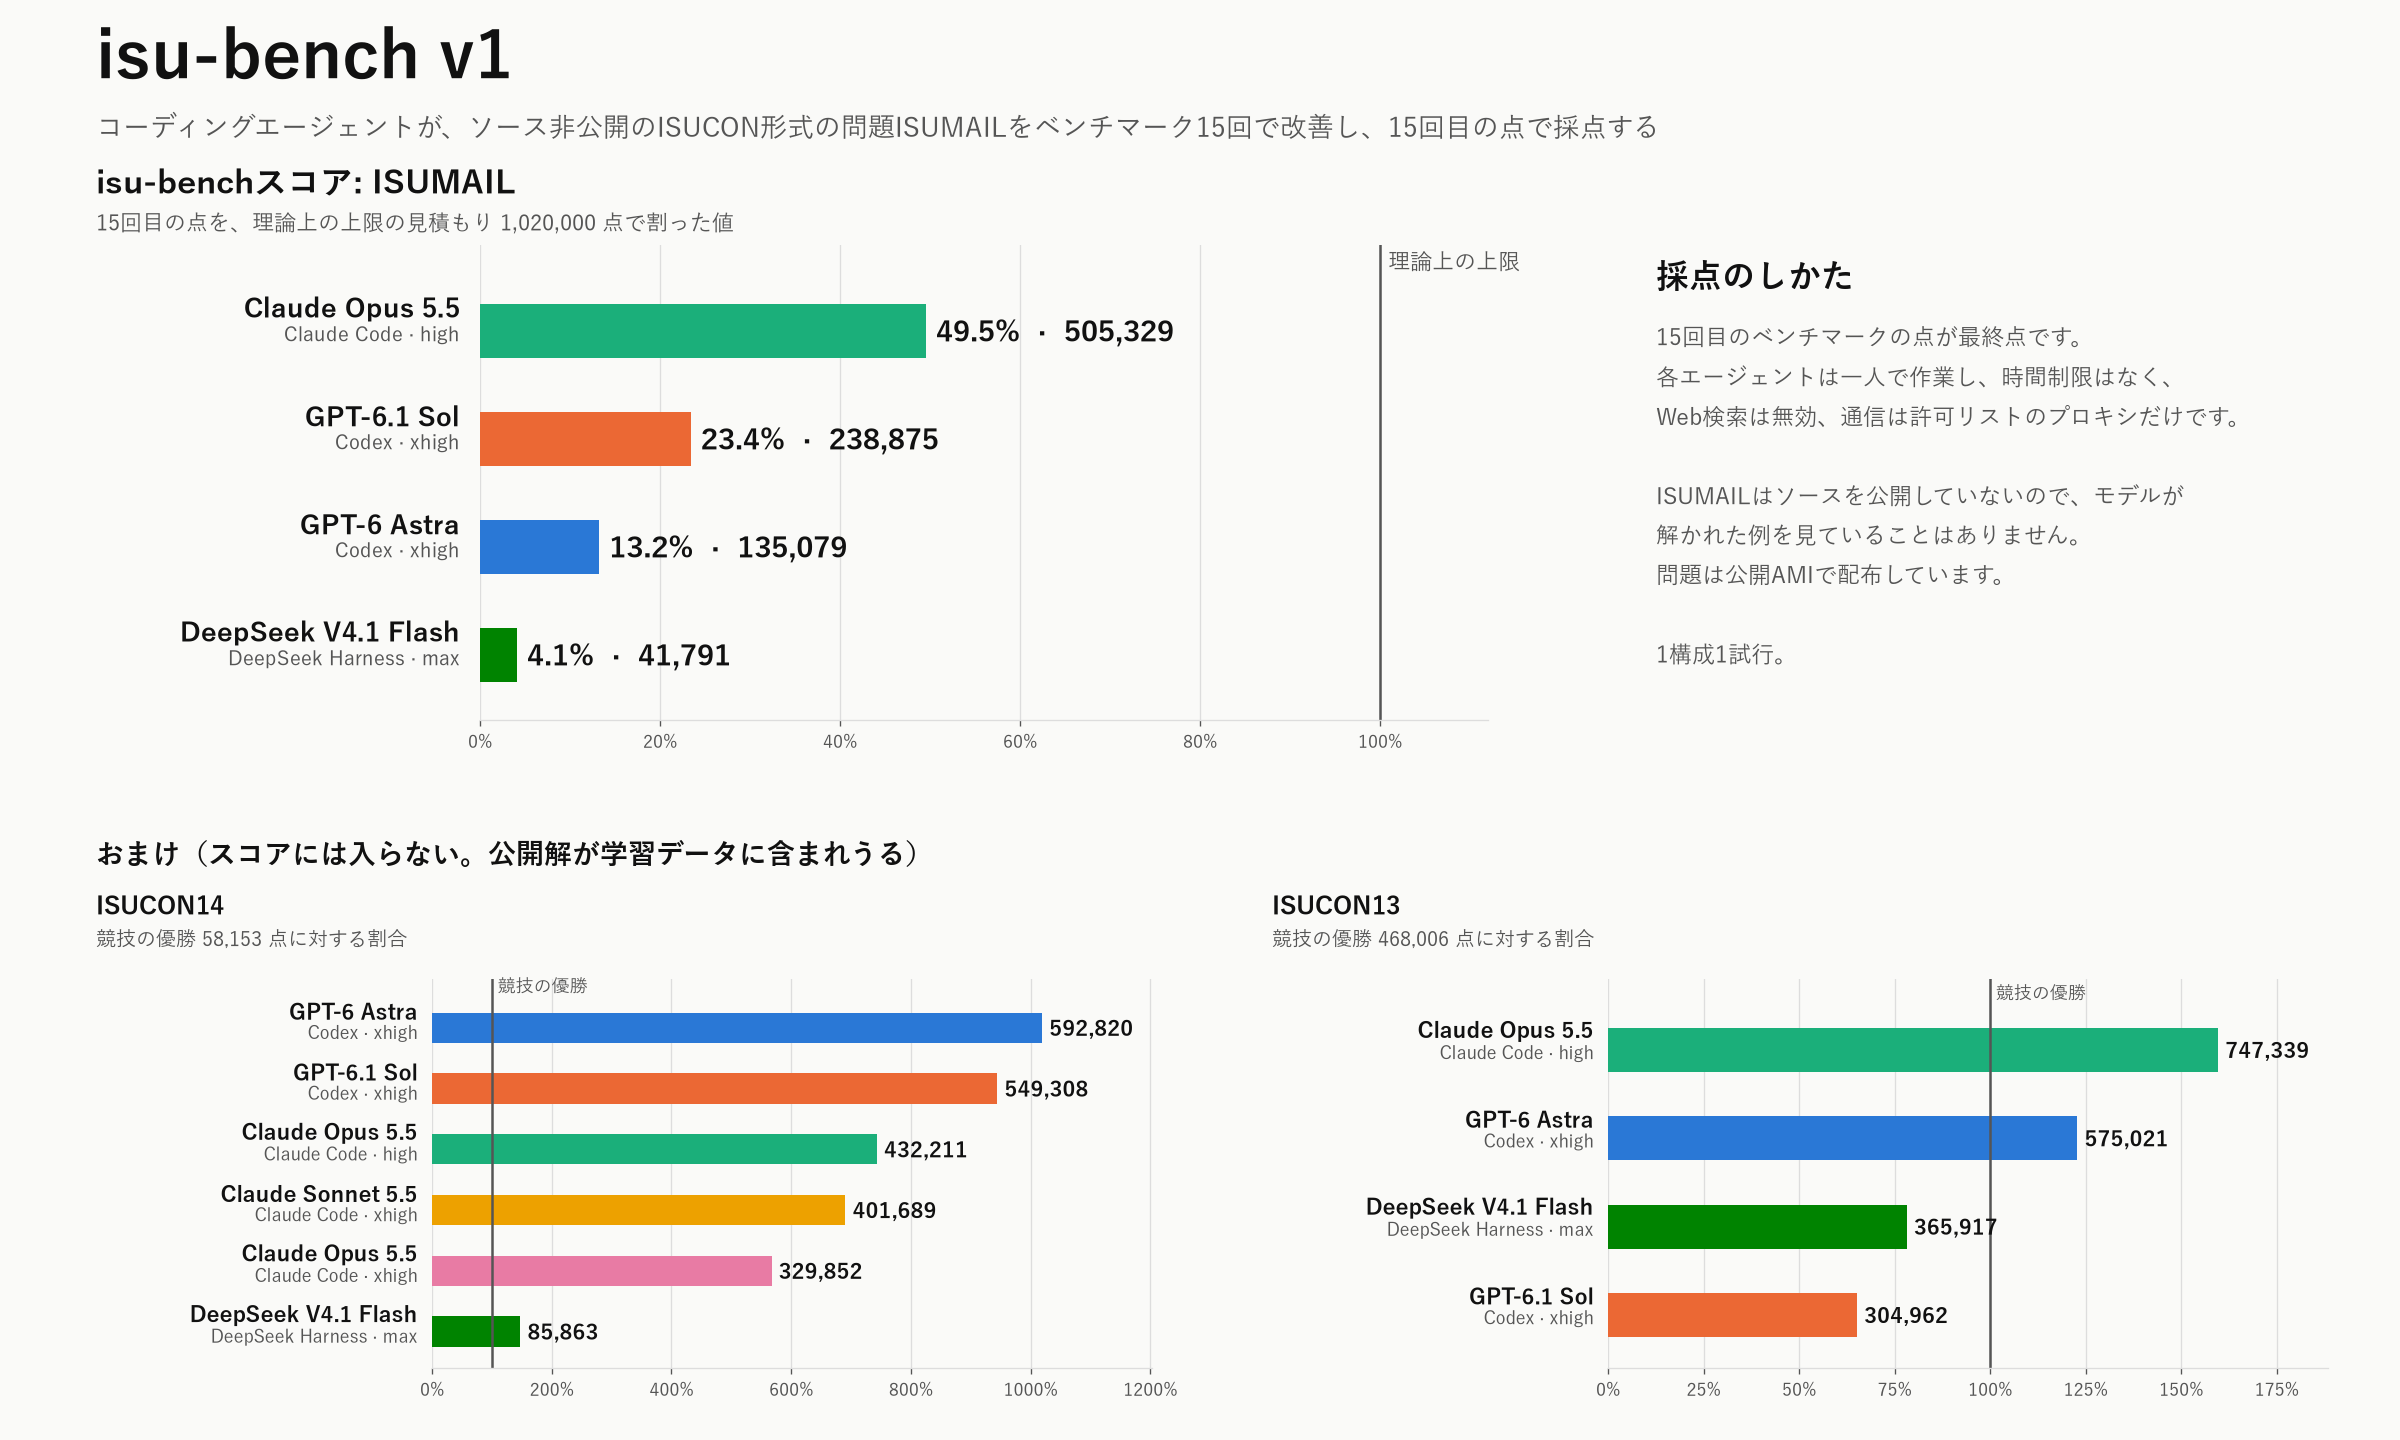
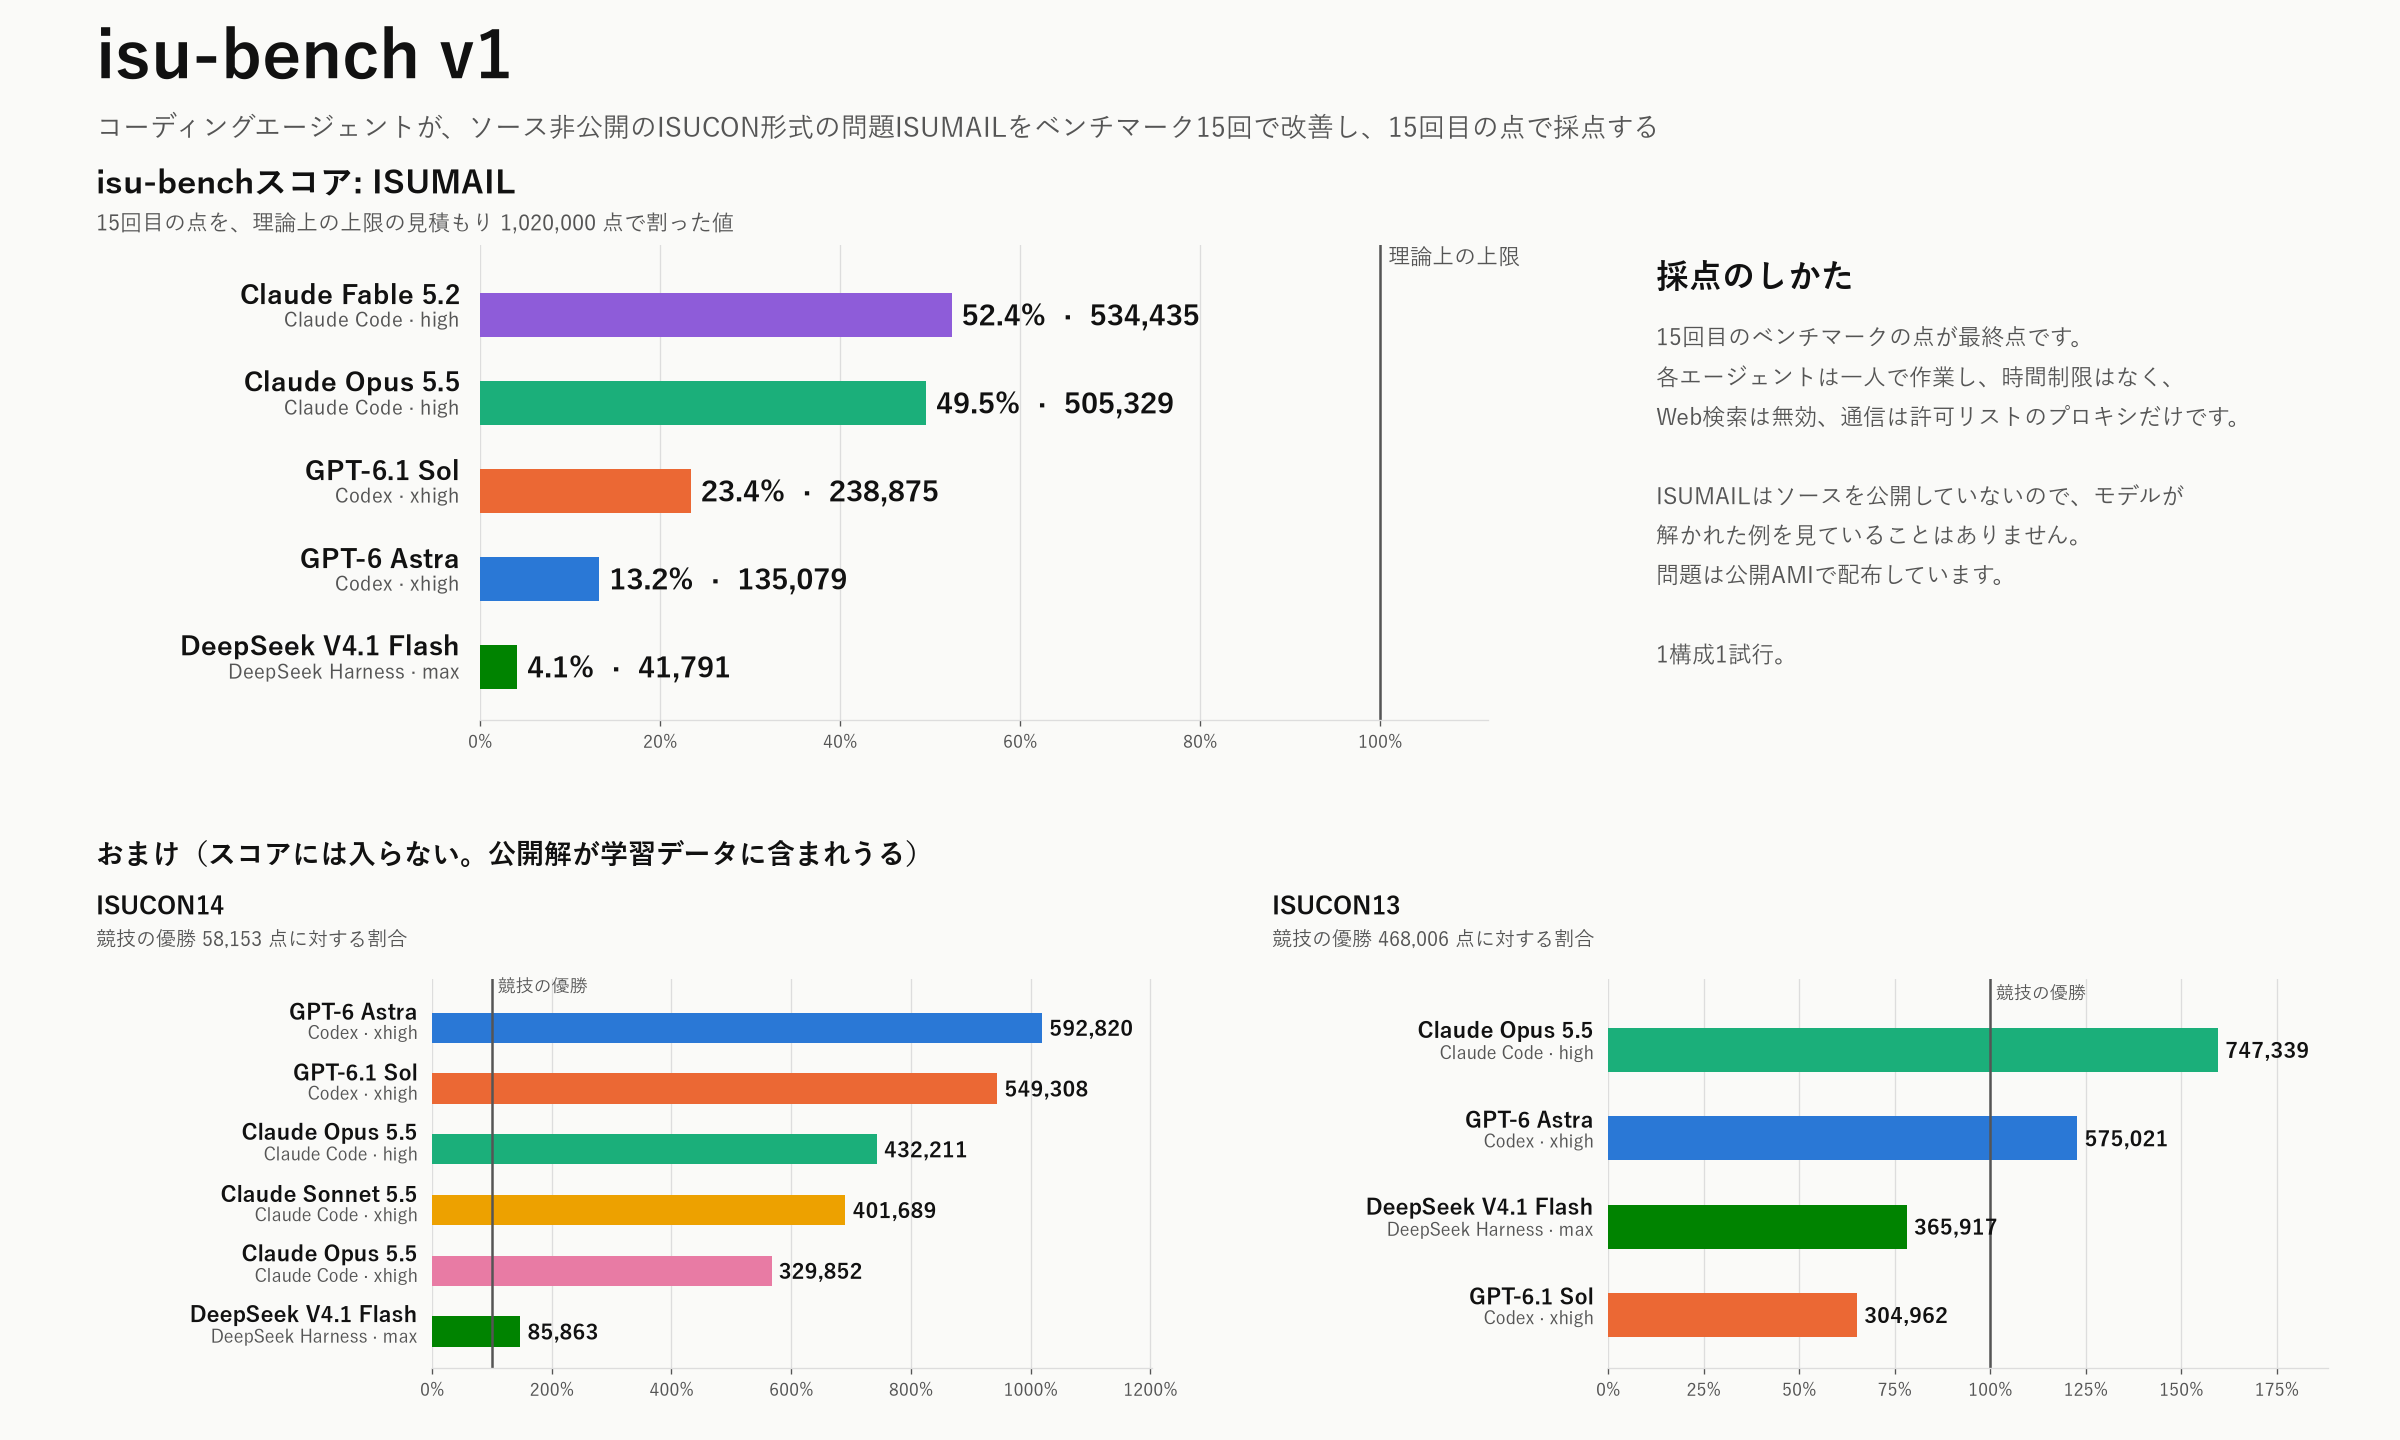
📝 docs: add Claude Fable 5.2 to the results and correct Sonnet 5.5's cache price
Claude Fable 5.2 high leads ISUMAIL at 52.4% (534,435). The README tables, the
per-run scores and both charts include it; the charts come from the same
matplotlib script as before, with Fable's name and a color added.

Anthropic's pricing page lists Sonnet 5.5 cache reads at $0.10 per million
tokens, not $0.20, so its ISUCON14 cost falls from $13.50 to $9.65. The
Anthropic prices were checked on 2026-11-10; the others stay as of 2026-11-03.

Changed region(s): [[0.0625, 0.1875, 0.5, 0.4688], [0.5625, 0.1562, 0.625, 0.1875]]

diff --git a/isubench/site.html b/isubench/site.html
@@ -136,7 +136,7 @@ const T = {
     details: 'Details',
     failNote: 'A hollow mark on the baseline is a FAIL, which scores 0.',
     tableNote: ["Tokens come from each agent's transcripts and are not strictly comparable across providers.",
-                'API cost prices those tokens at each provider\'s list price on 2026-11-03 (DeepSeek at its peak rate; off-peak is half).'],
+                'API cost prices those tokens at each provider\'s list price on 2026-11-03, Anthropic\'s on 2026-11-10 (DeepSeek at its peak rate; off-peak is half).'],
     source: 'Source and rules:',
     ask: 'Want another model or agent added? Ask ',
     askEnd: ' on X. Donations toward the EC2 and API costs are welcome too.',
@@ -172,7 +172,7 @@ const T = {
     details: '詳細',
     failNote: '0点の線上にある白抜きの印はFAILです（0点）。',
     tableNote: ['トークン数は各エージェントの会話記録から数えたもので、提供元をまたいで厳密には比べられません。',
-                'API換算の費用は、そのトークン数に2026年11月3日時点の各社の定価を掛けた値です（DeepSeekはピーク時の料金で、オフピーク時はその半額）。'],
+                'API換算の費用は、そのトークン数に2026年11月3日時点の各社の定価（Anthropicは11月10日時点）を掛けた値です（DeepSeekはピーク時の料金で、オフピーク時はその半額）。'],
     source: 'ソースとルール:',
     ask: '追加してほしいモデルやエージェントがあれば、Xの',
     askEnd: 'まで連絡してください。EC2とAPIの費用への寄付も歓迎します。',

diff --git a/isubench/prices.py b/isubench/prices.py
@@ -1,10 +1,10 @@
-# List prices in USD per million tokens, checked on 2026-11-03: Anthropic's model table, OpenAI's API pricing page
+# List prices in USD per million tokens, checked on 2026-11-03 (Anthropic's on 2026-11-10): Anthropic's model table, OpenAI's API pricing page
 # (standard tier; no request in these trials passed 272K input tokens) and DeepSeek's pricing page (deepseek-flash is
 # V4.1-Flash-1017, at the peak rate; off-peak is half).
 PRICES = {
     # Claude Code writes its prompt cache with the 1-hour TTL, billed at twice the input price.
     'claude-opus-5-5': {'input': 4.00, 'output': 20.00, 'cache_read': 0.20, 'cache_write': 8.00},
-    'claude-sonnet-5-5': {'input': 2.00, 'output': 10.00, 'cache_read': 0.20, 'cache_write': 4.00},
+    'claude-sonnet-5-5': {'input': 2.00, 'output': 10.00, 'cache_read': 0.10, 'cache_write': 4.00},
     'claude-fable-5-2': {'input': 8.00, 'output': 40.00, 'cache_read': 0.20, 'cache_write': 16.00},
     'gpt-6-astra': {'input': 10.00, 'output': 50.00, 'cache_read': 1.00, 'cache_write': 12.50},
     'gpt-6.1-sol': {'input': 2.00, 'output': 10.00, 'cache_read': 0.10, 'cache_write': 2.50},

diff --git a/README.ja.md b/README.ja.md
@@ -16,6 +16,7 @@ v1のスコアは [ISUMAIL](#isumail) の結果で決めます。ISUMAILはisu-b
 
 | エージェント | モデル | effort | isu-benchスコア | 最終点 | 初期実装比 | 最高点 | FAIL | 数えない走行 | 作業時間 | 出力トークン | キャッシュ読込トークン | API換算の費用 |
 |---|---|---|---:|---:|---:|---:|---:|---:|---:|---:|---:|---:|
+| Claude Code 2.1.321 | claude-fable-5-2 | high | **52.4%** | 534,435 | 248 | 549,184 | 0 | 0 | 409分 | 1,229,311 | 157.0M | $122.26 |
 | Claude Code 2.1.316 | claude-opus-5-5 | high | **49.5%** | 505,329 | 235 | 513,920 | 1 | 0 | 138分 | 325,625 | 72.1M | $25.26 |
 | Codex 0.166.0 | gpt-6.1-sol | xhigh | **23.4%** | 238,875 | 111 | 244,371 | 1 | 0 | 73分 | 93,841 | 15.8M | $2.81 |
 | Codex 0.166.0 | gpt-6-astra | xhigh | **13.2%** | 135,079 | 63 | 135,079 | 2 | 1 | 74分 | 87,471 | 16.2M | $23.52 |
@@ -25,6 +26,7 @@ v1のスコアは [ISUMAIL](#isumail) の結果で決めます。ISUMAILはisu-b
 
 | モデル | effort | 15回の点 |
 |---|---|---|
+| claude-fable-5-2 | high | 1,878, 111,304, 494,406, 546,695, 523,085, 521,990, 526,397, 528,959, 522,380, 526,941, 530,877, 542,267, 538,386, 549,184, 534,435 |
 | claude-opus-5-5 | high | 2,046, 438,146, FAIL, 475,462, 485,090, 473,317, 469,590, 497,013, 511,590, 503,614, 497,994, 513,920, 503,213, 509,469, 505,329 |
 | gpt-6.1-sol | xhigh | 2,069, 4,953, FAIL, 74,129, 114,969, 149,435, 157,324, 194,707, 178,893, 184,809, 244,371, 236,080, 230,362, 244,164, 238,875 |
 | gpt-6-astra | xhigh | 2,136, FAIL, 32,749, FAIL, 45,873, 55,941, 54,433, 81,842, 76,904, 116,076, 116,919, 127,762, 122,236, 131,060, 135,079 |
@@ -33,7 +35,7 @@ v1のスコアは [ISUMAIL](#isumail) の結果で決めます。ISUMAILはisu-b
 </details>
 
 - 参照実装（`initial`）は2,153点で、`calibrate` 5回の中央値です（変動係数5.9%。すべてpersist-checkに合格）。
-- API換算の費用は各試行のトークン数に2026年11月3日時点の各社の定価を掛けた値です（[isubench/prices.py](isubench/prices.py)。DeepSeekはピーク時の料金で、オフピーク時はその半額）。
+- API換算の費用は各試行のトークン数に2026年11月3日時点の各社の定価（Anthropicは11月10日時点）を掛けた値です（[isubench/prices.py](isubench/prices.py)。DeepSeekはピーク時の料金で、オフピーク時はその半額）。
 - ISUMAILの試行は `result.json` だけをコミットしています。会話記録、作業差分、ベンチマークの出力にはソースが含まれるため、手元にだけ置いています。
 
 ## ISUMAIL
@@ -80,7 +82,7 @@ python3 -m isubench quota --problem isumail --trials 2
 | Codex 0.166.0 | gpt-6-astra | xhigh | **592,820** | 1019% | 617 | 606,582 | 2 | 27分 | 56,487 | 11.7M | $15.93 |
 | Codex 0.166.0 | gpt-6.1-sol | xhigh | **549,308** | 945% | 572 | 559,421 | 2 | 30分 | 67,379 | 11.4M | $2.24 |
 | Claude Code 2.1.316 | claude-opus-5-5 | high | **432,211** | 743% | 450 | 477,541 | 1 | 41分 | 132,294 | 16.6M | $7.94 |
-| Claude Code 2.1.316 | claude-sonnet-5-5 | xhigh | **401,689** | 691% | 418 | 401,689 | 2 | 67分 | 367,717 | 38.5M | $13.50 |
+| Claude Code 2.1.316 | claude-sonnet-5-5 | xhigh | **401,689** | 691% | 418 | 401,689 | 2 | 67分 | 367,717 | 38.5M | $9.65 |
 | Claude Code 2.1.316 | claude-opus-5-5 | xhigh | **329,852** | 567% | 343 | 353,166 | 3 | 80分 | 269,527 | 40.3M | $16.90 |
 | DeepSeek Harness 0.2.1-rc.5 | deepseek-v4.1-flash:1017 | max | **85,863** | 148% | 89 | 90,099 | 2 | 34分 | 177,386 | 34.2M | $0.52 |
 

diff --git a/README.md b/README.md
@@ -16,6 +16,7 @@ Interactive charts of every run: [isu-bench.trasta.dev](https://isu-bench.trasta
 
 | agent | model | effort | isu-bench score | final | × initial | best | FAIL | uncounted | agent time | output tokens | cache read tokens | API cost |
 |---|---|---|---:|---:|---:|---:|---:|---:|---:|---:|---:|---:|
+| Claude Code 2.1.321 | claude-fable-5-2 | high | **52.4%** | 534,435 | 248 | 549,184 | 0 | 0 | 409 min | 1,229,311 | 157.0M | $122.26 |
 | Claude Code 2.1.316 | claude-opus-5-5 | high | **49.5%** | 505,329 | 235 | 513,920 | 1 | 0 | 138 min | 325,625 | 72.1M | $25.26 |
 | Codex 0.166.0 | gpt-6.1-sol | xhigh | **23.4%** | 238,875 | 111 | 244,371 | 1 | 0 | 73 min | 93,841 | 15.8M | $2.81 |
 | Codex 0.166.0 | gpt-6-astra | xhigh | **13.2%** | 135,079 | 63 | 135,079 | 2 | 1 | 74 min | 87,471 | 16.2M | $23.52 |
@@ -25,6 +26,7 @@ Interactive charts of every run: [isu-bench.trasta.dev](https://isu-bench.trasta
 
 | model | effort | runs |
 |---|---|---|
+| claude-fable-5-2 | high | 1,878, 111,304, 494,406, 546,695, 523,085, 521,990, 526,397, 528,959, 522,380, 526,941, 530,877, 542,267, 538,386, 549,184, 534,435 |
 | claude-opus-5-5 | high | 2,046, 438,146, FAIL, 475,462, 485,090, 473,317, 469,590, 497,013, 511,590, 503,614, 497,994, 513,920, 503,213, 509,469, 505,329 |
 | gpt-6.1-sol | xhigh | 2,069, 4,953, FAIL, 74,129, 114,969, 149,435, 157,324, 194,707, 178,893, 184,809, 244,371, 236,080, 230,362, 244,164, 238,875 |
 | gpt-6-astra | xhigh | 2,136, FAIL, 32,749, FAIL, 45,873, 55,941, 54,433, 81,842, 76,904, 116,076, 116,919, 127,762, 122,236, 131,060, 135,079 |
@@ -33,7 +35,7 @@ Interactive charts of every run: [isu-bench.trasta.dev](https://isu-bench.trasta
 </details>
 
 - The reference implementation (`initial`) scores 2,153, the median of 5 `calibrate` runs (coefficient of variation 5.9%; all passed persist-check).
-- API cost prices each trial's tokens at the providers' list prices on 2026-11-03 ([isubench/prices.py](isubench/prices.py); DeepSeek at its peak rate, off-peak is half).
+- API cost prices each trial's tokens at the providers' list prices on 2026-11-03, Anthropic's on 2026-11-10 ([isubench/prices.py](isubench/prices.py); DeepSeek at its peak rate, off-peak is half).
 - Only `result.json` of each ISUMAIL trial is committed. Transcripts, workspace diffs and benchmark output contain the source and stay local.
 
 ## ISUMAIL
@@ -80,7 +82,7 @@ Contest winner 58,153. Initial Go implementation about 961 in this environment.
 | Codex 0.166.0 | gpt-6-astra | xhigh | **592,820** | 1019% | 617 | 606,582 | 2 | 27 min | 56,487 | 11.7M | $15.93 |
 | Codex 0.166.0 | gpt-6.1-sol | xhigh | **549,308** | 945% | 572 | 559,421 | 2 | 30 min | 67,379 | 11.4M | $2.24 |
 | Claude Code 2.1.316 | claude-opus-5-5 | high | **432,211** | 743% | 450 | 477,541 | 1 | 41 min | 132,294 | 16.6M | $7.94 |
-| Claude Code 2.1.316 | claude-sonnet-5-5 | xhigh | **401,689** | 691% | 418 | 401,689 | 2 | 67 min | 367,717 | 38.5M | $13.50 |
+| Claude Code 2.1.316 | claude-sonnet-5-5 | xhigh | **401,689** | 691% | 418 | 401,689 | 2 | 67 min | 367,717 | 38.5M | $9.65 |
 | Claude Code 2.1.316 | claude-opus-5-5 | xhigh | **329,852** | 567% | 343 | 353,166 | 3 | 80 min | 269,527 | 40.3M | $16.90 |
 | DeepSeek Harness 0.2.1-rc.5 | deepseek-v4.1-flash:1017 | max | **85,863** | 148% | 89 | 90,099 | 2 | 34 min | 177,386 | 34.2M | $0.52 |
 
